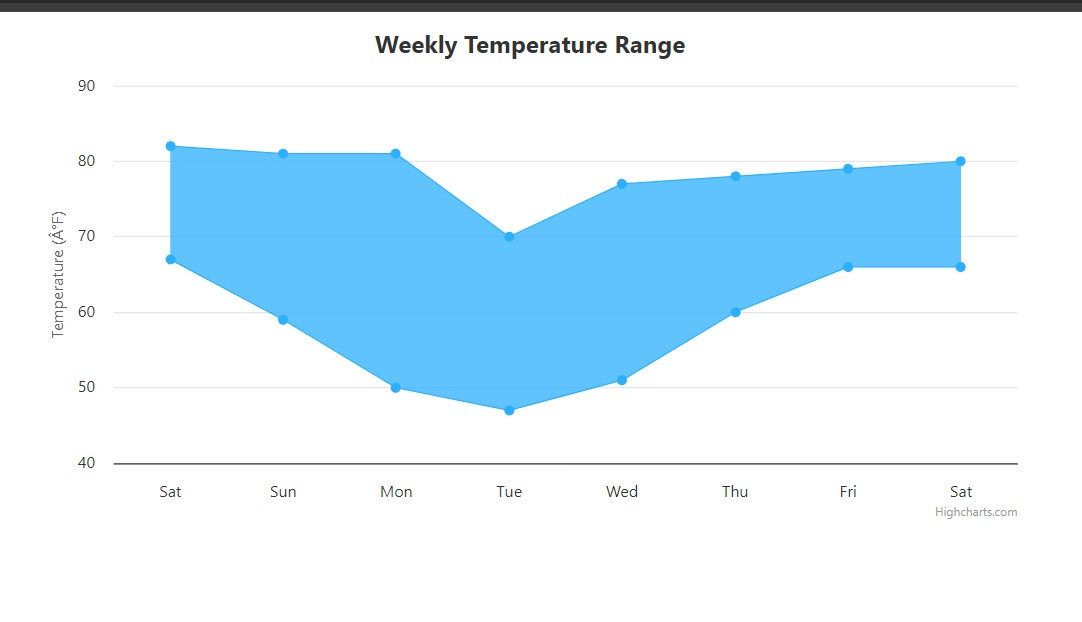
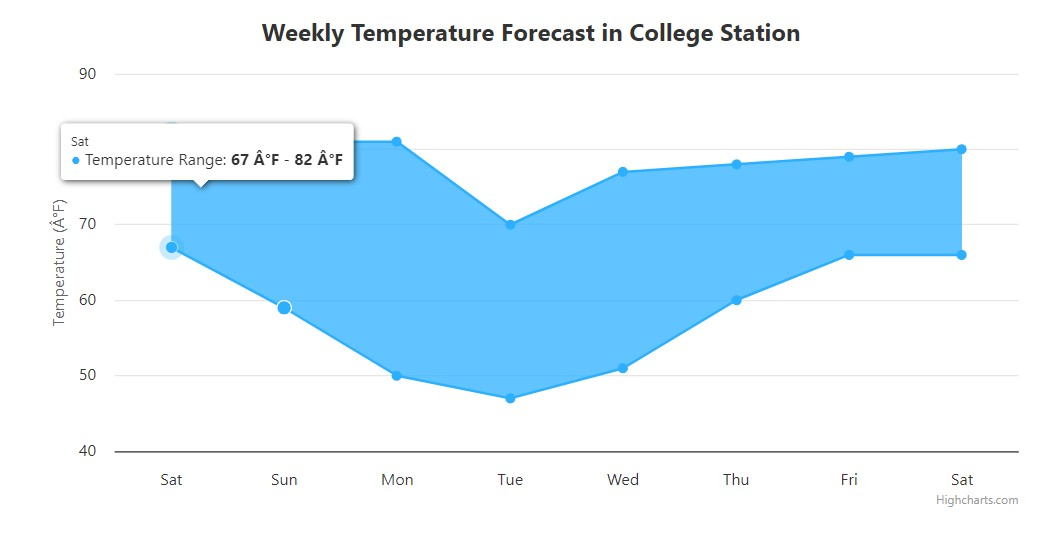
updated screenshots for lab 08

diff --git a/Lab/Week08/HC_index.html b/Lab/Week08/HC_index.html
@@ -1,7 +1,7 @@
 <!DOCTYPE html>
 <html>
 <head>
-    <title>Temperature Range Chart</title>
+    <title>Weekly Temperature Range Chart</title>
 
     <script src="https://code.highcharts.com/highcharts.js"></script>
     <script src="https://code.highcharts.com/highcharts-more.js"></script>
@@ -26,7 +26,7 @@ Highcharts.chart('container', {
     },
 
     title: {
-        text: 'Weekly Temperature Range'
+        text: 'Weekly Temperature Forecast in College Station'
     },
 
     xAxis: {

diff --git a/Lab/Week08/D3_index.html b/Lab/Week08/D3_index.html
@@ -22,7 +22,7 @@
 </head>
 <body>
 
-<h3>Weekly Temperatures</h3>
+<h3>Weekly Temperature Forecast in College Station</h3>
 <div id="chart"></div>
 
 <script>